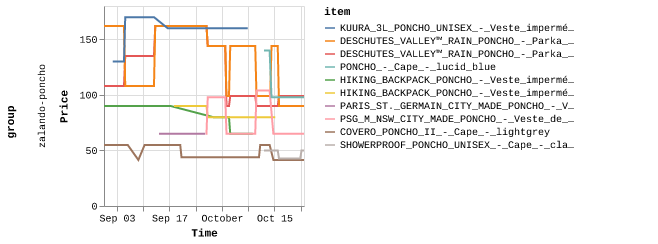
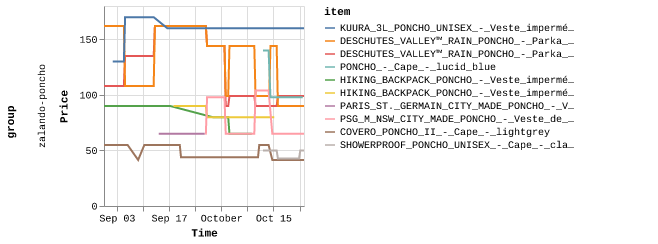
Latest scraping prices: Mon Oct 23 04:50:16 UTC 2023

diff --git a/scrapes/prices/zalando-poncho-KUURA_3L_PONCHO_UNISEX_-_Veste_imperméable_-_green.md b/scrapes/prices/zalando-poncho-KUURA_3L_PONCHO_UNISEX_-_Veste_imperméable_-_green.md
@@ -1,3 +1,3 @@
-9795
+15995
 
 [Source](https://fr.zalando.be/homme/?q=poncho+imperm%C3%A9able&sold_by_zalando=true)
